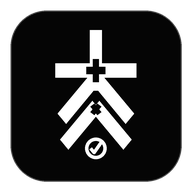
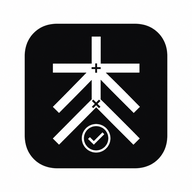
Add files via upload

diff --git a/index.html b/index.html
@@ -9,68 +9,26 @@
 <meta name="apple-mobile-web-app-title" content="창신체크미" />
 <link rel="manifest" href="manifest.webmanifest" />
 <link rel="apple-touch-icon" href="icon-192.png" />
+<link rel="preload" as="image" href="logo-original.png" />
 <title>창신체크미</title>
 <style>
-:root{font-family:-apple-system,BlinkMacSystemFont,"Apple SD Gothic Neo",sans-serif;color-scheme:dark;--bg:#000;--line:#292929;--text:#fff;--muted:#85858b}
-*{box-sizing:border-box}html,body{margin:0;background:var(--bg);color:var(--text);min-height:100%}body{min-height:100svh}button,input,select{font:inherit}.app{max-width:640px;margin:auto;padding:max(18px,env(safe-area-inset-top)) 18px calc(92px + env(safe-area-inset-bottom))}.top{display:flex;justify-content:space-between;align-items:center;margin-bottom:26px}.brand{display:flex;gap:12px;align-items:center}.mark{width:52px;height:52px;border:1px solid #333;border-radius:15px;background:#080808;display:grid;place-items:center;overflow:hidden}.mark svg{width:41px;height:41px}.title h1{font-size:22px;margin:0;letter-spacing:-.055em}.title p{font-size:12px;color:var(--muted);margin:4px 0 0;letter-spacing:.01em}.icon-btn{width:42px;height:42px;border-radius:50%;border:1px solid var(--line);background:#090909;color:#fff;display:grid;place-items:center;padding:0}.icon-btn svg{width:20px;height:20px;stroke:currentColor;fill:none;stroke-width:1.7;stroke-linecap:round;stroke-linejoin:round}.hero{text-align:center;padding:7px 0 28px}.percent{font-size:72px;font-weight:760;letter-spacing:-.075em;line-height:1}.percent small{font-size:30px;margin-left:4px}.sub{margin-top:10px;color:var(--muted);font-size:15px}.journey{position:relative;margin:26px 0 8px;padding-top:22px}.journey-icons{position:absolute;top:0;left:0;right:0;display:flex;justify-content:space-between;color:#d8d8dc}.journey-icons svg{width:16px;height:16px;fill:none;stroke:currentColor;stroke-width:1.65;stroke-linecap:round;stroke-linejoin:round}.bar{height:7px;background:#272727;border-radius:999px;overflow:hidden}.fill{height:100%;background:#fff;width:0;transition:width .35s cubic-bezier(.2,.8,.2,1)}.bar-label{display:flex;justify-content:space-between;color:#707075;font-size:12px;margin-top:8px}.section-title{font-size:13px;color:#79797e;margin:20px 0 8px}.list{border-top:1px solid var(--line)}.item{width:100%;display:flex;align-items:center;gap:14px;padding:17px 2px;border:0;border-bottom:1px solid var(--line);background:transparent;color:white;text-align:left}.item:active{opacity:.55}.item-icon{width:30px;text-align:center;font-size:19px}.item-main{flex:1;display:flex;align-items:baseline;min-width:0}.item-name{font-size:16px;font-weight:620;letter-spacing:-.035em;white-space:nowrap}.item-meta{font-size:12px;color:var(--muted);margin-left:3pt;white-space:nowrap;overflow:hidden;text-overflow:ellipsis}.state{width:25px;height:25px;border-radius:50%;border:1.5px solid #555;display:grid;place-items:center;font-size:14px;flex:none}.item.done .state{border-color:white;background:white;color:black}.controls{display:grid;grid-template-columns:1fr 1fr;gap:10px;margin-top:24px}.control{border:1px solid var(--line);border-radius:14px;padding:14px;background:#0b0b0b;color:white;font-weight:650}.control.primary{background:white;color:black;border-color:white}.hidden{display:none!important}.tabs{position:fixed;left:0;right:0;bottom:0;background:rgba(0,0,0,.9);backdrop-filter:blur(20px);border-top:1px solid #1d1d1d;padding:9px 16px calc(9px + env(safe-area-inset-bottom))}.tabs-in{max-width:640px;margin:auto;display:grid;grid-template-columns:repeat(3,1fr)}.tab{border:0;background:transparent;color:#67676c;padding:8px;font-size:12px}.tab svg{display:block;width:20px;height:20px;margin:0 auto 4px;fill:none;stroke:currentColor;stroke-width:1.6;stroke-linecap:round;stroke-linejoin:round}.tab.active{color:white}.view{display:none}.view.active{display:block}.card{border:1px solid var(--line);border-radius:18px;padding:16px;background:#0b0b0b;margin-bottom:12px}.card h3{margin:0;font-size:16px}.card p{color:var(--muted);font-size:13px;line-height:1.5}.card-actions{display:grid;grid-template-columns:1fr 1fr;gap:9px;margin-top:12px}.small-btn{border:1px solid #333;background:#111;color:white;border-radius:12px;padding:12px;font-weight:650}.small-btn.white{background:white;color:black}.photos{display:grid;grid-template-columns:repeat(3,1fr);gap:8px;margin-top:12px}.photos img{width:100%;aspect-ratio:1;object-fit:cover;border-radius:10px}.field{margin-top:14px}.field label{font-size:12px;color:var(--muted);display:block;margin-bottom:6px}.field input,.field select{width:100%;border:1px solid #333;background:#111;color:white;border-radius:12px;padding:13px}.home-return{width:100%;margin-top:12px;border:1px solid #333;background:#0b0b0b;color:#fff;border-radius:14px;padding:14px;font-weight:680;display:flex;justify-content:center;align-items:center;gap:8px}.home-return svg{width:17px;height:17px;fill:none;stroke:currentColor;stroke-width:1.7;stroke-linecap:round;stroke-linejoin:round}.toast{position:fixed;left:50%;bottom:105px;transform:translate(-50%,20px);opacity:0;background:white;color:black;border-radius:999px;padding:12px 17px;font-weight:700;transition:.2s;z-index:20;white-space:nowrap;max-width:90vw;overflow:hidden;text-overflow:ellipsis}.toast.show{opacity:1;transform:translate(-50%,0)}.complete{position:fixed;inset:0;background:black;display:none;z-index:30;align-items:center;justify-content:center;text-align:center;padding:24px}.complete.show{display:flex}.checkring{width:112px;height:112px;border:3px solid white;border-radius:50%;display:grid;place-items:center;font-size:58px;margin:auto}.complete h2{font-size:28px;margin:22px 0 8px}.complete p{color:var(--muted);margin:0 0 28px}.complete button{width:100%;max-width:320px;border:0;border-radius:14px;padding:15px;background:white;color:black;font-weight:750;margin-top:10px}.public-wrap{max-width:640px;margin:auto;padding:24px 18px}.public-photo{border-bottom:1px solid #252525;padding:18px 0}.public-photo img{width:100%;border-radius:14px}.public-meta{color:#8e8e93;font-size:12px;margin-top:8px}.loading-card{text-align:center;padding:50px 20px;color:#aaa}input[type=file]{display:none}
+:root{font-family:-apple-system,BlinkMacSystemFont,"Apple SD Gothic Neo",sans-serif;color-scheme:dark;--bg:#000;--card:#101010;--line:#292929;--text:#fff;--muted:#8e8e93}
+*{box-sizing:border-box}html,body{margin:0;background:var(--bg);color:var(--text);min-height:100%}body{min-height:100svh}button,input,select{font:inherit}.app{max-width:640px;margin:auto;padding:max(18px,env(safe-area-inset-top)) 18px calc(92px + env(safe-area-inset-bottom))}.top{display:flex;justify-content:space-between;align-items:center;margin-bottom:28px}.brand{display:flex;gap:12px;align-items:center}.mark{width:48px;height:48px;border-radius:13px;overflow:hidden;background:#fff;flex:none}.mark img{display:block;width:100%;height:100%;object-fit:cover}.title h1{font-size:21px;margin:0;letter-spacing:-.05em}.title p{font-size:12px;color:var(--muted);margin:3px 0 0}.icon-btn{width:42px;height:42px;border-radius:50%;border:1px solid var(--line);background:#0c0c0c;color:white;display:grid;place-items:center;padding:0}.icon-btn svg{width:21px;height:21px;display:block}.hero{text-align:center;padding:6px 0 28px}.percent{font-size:68px;font-weight:750;letter-spacing:-.07em;line-height:1}.percent small{font-size:28px;margin-left:3px}.sub{margin-top:10px;color:var(--muted);font-size:14px}.bar{height:6px;background:#242424;border-radius:999px;overflow:hidden;margin:22px 0 8px}.fill{height:100%;background:#fff;width:0;transition:width .35s cubic-bezier(.2,.8,.2,1)}.bar-label{display:flex;justify-content:space-between;color:#6f6f73;font-size:12px}.section-title{font-size:13px;color:#76767b;margin:20px 0 8px}.list{border-top:1px solid var(--line)}.item{width:100%;display:flex;align-items:center;gap:13px;padding:16px 2px;border:0;border-bottom:1px solid var(--line);background:transparent;color:white;text-align:left}.item:active{opacity:.55}.item-icon{width:30px;text-align:center;font-size:19px}.item-main{flex:1}.item-name{font-size:16px;font-weight:600;letter-spacing:-.03em}.item-meta{font-size:12px;color:var(--muted);margin-top:3px}.state{width:24px;height:24px;border-radius:50%;border:1.5px solid #555;display:grid;place-items:center;font-size:14px}.item.done .state{border-color:white;background:white;color:black}.controls{display:grid;grid-template-columns:1fr 1fr;gap:10px;margin-top:24px}.control{border:1px solid var(--line);border-radius:14px;padding:14px;background:#0b0b0b;color:white;font-weight:650}.control.primary{background:white;color:black;border-color:white}.hidden{display:none!important}.tabs{position:fixed;left:0;right:0;bottom:0;background:rgba(0,0,0,.88);backdrop-filter:blur(20px);border-top:1px solid #1d1d1d;padding:9px 16px calc(9px + env(safe-area-inset-bottom))}.tabs-in{max-width:640px;margin:auto;display:grid;grid-template-columns:repeat(3,1fr)}.tab{border:0;background:transparent;color:#67676c;padding:8px;font-size:12px}.tab b{display:block;font-size:19px;margin-bottom:3px}.tab.active{color:white}.view{display:none}.view.active{display:block}.card{border:1px solid var(--line);border-radius:18px;padding:16px;background:#0b0b0b;margin-bottom:12px}.card h3{margin:0;font-size:16px}.card p{color:var(--muted);font-size:13px;line-height:1.5}.card-actions{display:grid;grid-template-columns:1fr 1fr;gap:9px;margin-top:12px}.small-btn{border:1px solid #333;background:#111;color:white;border-radius:12px;padding:12px;font-weight:650}.small-btn.white{background:white;color:black}.photos{display:grid;grid-template-columns:repeat(3,1fr);gap:8px;margin-top:12px}.photos img{width:100%;aspect-ratio:1;object-fit:cover;border-radius:10px}.field{margin-top:14px}.field label{font-size:12px;color:var(--muted);display:block;margin-bottom:6px}.field input,.field select{width:100%;border:1px solid #333;background:#111;color:white;border-radius:12px;padding:13px}.toast{position:fixed;left:50%;bottom:105px;transform:translate(-50%,20px);opacity:0;background:white;color:black;border-radius:999px;padding:12px 17px;font-weight:700;transition:.2s;z-index:20;white-space:nowrap;max-width:90vw;overflow:hidden;text-overflow:ellipsis}.toast.show{opacity:1;transform:translate(-50%,0)}.complete{position:fixed;inset:0;background:black;display:none;z-index:30;align-items:center;justify-content:center;text-align:center;padding:24px}.complete.show{display:flex}.checkring{width:112px;height:112px;border:3px solid white;border-radius:50%;display:grid;place-items:center;font-size:58px;margin:auto}.complete h2{font-size:28px;margin:22px 0 8px}.complete p{color:var(--muted);margin:0 0 28px}.complete button{width:100%;max-width:320px;border:0;border-radius:14px;padding:15px;background:white;color:black;font-weight:750;margin-top:10px}.public-wrap{max-width:640px;margin:auto;padding:24px 18px}.public-photo{border-bottom:1px solid #252525;padding:18px 0}.public-photo img{width:100%;border-radius:14px}.public-meta{color:#8e8e93;font-size:12px;margin-top:8px}.loading-card{text-align:center;padding:50px 20px;color:#aaa}input[type=file]{display:none}
 </style>
 </head>
 <body>
 <div id="appRoot" class="app">
-<header class="top">
-  <div class="brand">
-    <div class="mark" aria-label="창신체크미 로고">
-      <svg viewBox="0 0 100 100" aria-hidden="true">
-        <g fill="#fff">
-          <rect x="45" y="5" width="10" height="42"/>
-          <rect x="16" y="28" width="68" height="10"/>
-          <polygon points="45,36 52,43 25,70 18,63"/>
-          <polygon points="55,36 82,63 75,70 48,43"/>
-          <polygon points="47,54 54,61 27,88 20,81"/>
-          <polygon points="53,54 80,81 73,88 46,61"/>
-        </g>
-        <rect x="47.5" y="25" width="5" height="16" fill="#000"/><rect x="42" y="30.5" width="16" height="5" fill="#000"/>
-        <path d="M47 57l6 6M53 57l-6 6" stroke="#000" stroke-width="4.5" stroke-linecap="square"/>
-        <circle cx="50" cy="87" r="9" fill="#000" stroke="#fff" stroke-width="3"/>
-        <path d="M45.5 87l3 3 6-7" fill="none" stroke="#fff" stroke-width="3" stroke-linecap="round" stroke-linejoin="round"/>
-      </svg>
-    </div>
-    <div class="title"><h1>창신체크미</h1><p>WORKSHOP CHECK</p></div>
-  </div>
-  <button id="quickSettings" class="icon-btn" aria-label="설정 열기 또는 홈으로 돌아가기">
-    <svg id="topSettingsIcon" viewBox="0 0 24 24"><circle cx="12" cy="12" r="3.1"/><path d="M19.4 15a1.7 1.7 0 0 0 .34 1.88l.05.05-2.12 2.12-.05-.05a1.7 1.7 0 0 0-1.88-.34 1.7 1.7 0 0 0-1.03 1.56V20.3h-3v-.08a1.7 1.7 0 0 0-1.03-1.56 1.7 1.7 0 0 0-1.88.34l-.05.05-2.12-2.12.05-.05A1.7 1.7 0 0 0 7 15a1.7 1.7 0 0 0-1.56-1.03h-.08v-3h.08A1.7 1.7 0 0 0 7 9.94a1.7 1.7 0 0 0-.34-1.88l-.05-.05 2.12-2.12.05.05a1.7 1.7 0 0 0 1.88.34A1.7 1.7 0 0 0 11.69 4.7v-.08h3v.08a1.7 1.7 0 0 0 1.03 1.56 1.7 1.7 0 0 0 1.88-.34l.05-.05 2.12 2.12-.05.05a1.7 1.7 0 0 0-.34 1.88A1.7 1.7 0 0 0 20.94 11h.08v3h-.08A1.7 1.7 0 0 0 19.4 15z"/></svg>
-  </button>
-</header>
+<header class="top"><div class="brand"><div class="mark"><img src="logo-original.png" alt="창신체크미 로고"></div><div class="title"><h1>창신체크미</h1><p>WORKSHOP CHECK</p></div></div><button id="quickSettings" class="icon-btn" type="button" aria-label="설정 열기"><svg viewBox="0 0 24 24" fill="none" aria-hidden="true"><path d="M12 8.25a3.75 3.75 0 1 0 0 7.5 3.75 3.75 0 0 0 0-7.5Z" stroke="currentColor" stroke-width="1.7"/><path d="M19.14 13.34a7.82 7.82 0 0 0 .05-2.68l2.01-1.56-2-3.46-2.38.96a8 8 0 0 0-2.32-1.34L14.14 2.7h-4.28L9.5 5.26A8 8 0 0 0 7.18 6.6L4.8 5.64l-2 3.46 2.01 1.56a7.82 7.82 0 0 0 .05 2.68L2.8 14.9l2 3.46 2.42-.98A8.02 8.02 0 0 0 9.5 18.7l.36 2.6h4.28l.36-2.6a8.02 8.02 0 0 0 2.28-1.32l2.42.98 2-3.46-2.06-1.56Z" stroke="currentColor" stroke-width="1.7" stroke-linejoin="round"/></svg></button></header>
 <section id="checkView" class="view active">
-<div class="hero">
-  <div class="percent"><span id="percent">0</span><small>%</small></div>
-  <div id="countText" class="sub">0 / 7 완료</div>
-  <div class="journey">
-    <div class="journey-icons">
-      <svg viewBox="0 0 24 24" aria-label="작업실"><path d="M4 21h16M6 21V8h8v13M14 12h4v9M9 11h2M9 15h2M9 19h2M17 15h1M17 18h1"/></svg>
-      <svg viewBox="0 0 24 24" aria-label="집"><path d="M3 11.2 12 4l9 7.2M5.5 10.2V21h13V10.2M9.5 21v-6h5v6"/></svg>
-    </div>
-    <div class="bar"><div id="progressFill" class="fill"></div></div>
-  </div>
-  <div class="bar-label"><span>진행률</span><span id="statusText">점검 중</span></div>
-</div>
+<div class="hero"><div class="percent"><span id="percent">0</span><small>%</small></div><div id="countText" class="sub">0 / 7 완료</div><div class="bar"><div id="progressFill" class="fill"></div></div><div class="bar-label"><span>진행률</span><span id="statusText">점검 중</span></div></div>
 <div class="section-title">항목을 누르면 바로 카메라가 열립니다</div><div id="itemList" class="list"></div>
 <div class="controls"><button id="breakBtn" class="control">잠시 외출</button><button id="shareBtn" class="control primary">공유하기</button></div>
 <input id="cameraInput" type="file" accept="image/*" capture="environment" />
 </section>
 <section id="historyView" class="view"><div id="historyList"></div></section>
-<section id="settingsView" class="view">
-  <div class="card"><h3>작업실 위치</h3><p id="workshopInfo">아직 저장되지 않음</p><div class="field"><label>경고 반경</label><input id="radiusInput" type="number" value="120" min="30" max="500" /></div><div class="card-actions"><button id="saveWorkshopBtn" class="small-btn white">현재 위치 저장</button><button id="clearWorkshopBtn" class="small-btn">위치 지우기</button></div></div>
-  <div class="card"><h3>잠시 외출</h3><div class="field"><label>기본 시간</label><select id="breakSelect"><option value="30">30분</option><option value="60">1시간</option><option value="120">2시간</option></select></div></div>
-  <div class="card"><h3>새 점검</h3><p>현재 점검을 비우고 처음부터 다시 시작합니다.</p><button id="newSessionBtn" class="small-btn white" style="width:100%">새 점검 시작</button></div>
-  <button id="settingsHomeBtn" class="home-return"><svg viewBox="0 0 24 24"><path d="M3 11.2 12 4l9 7.2M5.5 10.2V21h13V10.2M9.5 21v-6h5v6"/></svg>홈으로 돌아가기</button>
-</section>
+<section id="settingsView" class="view"><div class="card"><h3>작업실 위치</h3><p id="workshopInfo">아직 저장되지 않음</p><div class="field"><label>경고 반경</label><input id="radiusInput" type="number" value="120" min="30" max="500" /></div><div class="card-actions"><button id="saveWorkshopBtn" class="small-btn white">현재 위치 저장</button><button id="clearWorkshopBtn" class="small-btn">위치 지우기</button></div></div><div class="card"><h3>잠시 외출</h3><div class="field"><label>기본 시간</label><select id="breakSelect"><option value="30">30분</option><option value="60">1시간</option><option value="120">2시간</option></select></div></div><div class="card"><h3>새 점검</h3><p>현재 점검을 비우고 처음부터 다시 시작합니다.</p><button id="newSessionBtn" class="small-btn white" style="width:100%">새 점검 시작</button></div></section>
 </div>
-<nav class="tabs" id="tabs"><div class="tabs-in">
-<button class="tab active" data-view="checkView"><svg viewBox="0 0 24 24"><path d="M3 11.2 12 4l9 7.2M5.5 10.2V21h13V10.2M9.5 21v-6h5v6"/></svg>홈</button>
-<button class="tab" data-view="historyView"><svg viewBox="0 0 24 24"><rect x="5" y="3" width="14" height="18" rx="2"/><path d="M8.5 8h7M8.5 12h7M8.5 16h5"/></svg>기록</button>
-<button class="tab" data-view="settingsView"><svg viewBox="0 0 24 24"><circle cx="12" cy="12" r="3.1"/><path d="M19.4 15a1.7 1.7 0 0 0 .34 1.88l.05.05-2.12 2.12-.05-.05a1.7 1.7 0 0 0-1.88-.34 1.7 1.7 0 0 0-1.03 1.56V20.3h-3v-.08a1.7 1.7 0 0 0-1.03-1.56 1.7 1.7 0 0 0-1.88.34l-.05.05-2.12-2.12.05-.05A1.7 1.7 0 0 0 7 15a1.7 1.7 0 0 0-1.56-1.03h-.08v-3h.08A1.7 1.7 0 0 0 7 9.94a1.7 1.7 0 0 0-.34-1.88l-.05-.05 2.12-2.12.05.05a1.7 1.7 0 0 0 1.88.34A1.7 1.7 0 0 0 11.69 4.7v-.08h3v.08a1.7 1.7 0 0 0 1.03 1.56 1.7 1.7 0 0 0 1.88-.34l.05-.05 2.12 2.12-.05.05a1.7 1.7 0 0 0-.34 1.88A1.7 1.7 0 0 0 20.94 11h.08v3h-.08A1.7 1.7 0 0 0 19.4 15z"/></svg>설정</button>
-</div></nav>
+<nav class="tabs" id="tabs"><div class="tabs-in"><button class="tab active" data-view="checkView"><b>⌂</b>홈</button><button class="tab" data-view="historyView"><b>▣</b>기록</button><button class="tab" data-view="settingsView"><b><svg viewBox="0 0 24 24" width="19" height="19" fill="none" style="vertical-align:middle"><circle cx="12" cy="12" r="3.4" stroke="currentColor" stroke-width="1.6"/><path d="M19.1 13.3c.13-.86.13-1.74 0-2.6l1.85-1.43-1.84-3.18-2.2.89a7.5 7.5 0 0 0-2.24-1.3L14.34 3.3h-4.68l-.33 2.38a7.5 7.5 0 0 0-2.24 1.3l-2.2-.89-1.84 3.18L4.9 10.7a8.5 8.5 0 0 0 0 2.6l-1.85 1.43 1.84 3.18 2.2-.89a7.5 7.5 0 0 0 2.24 1.3l.33 2.38h4.68l.33-2.38a7.5 7.5 0 0 0 2.24-1.3l2.2.89 1.84-3.18L19.1 13.3Z" stroke="currentColor" stroke-width="1.6" stroke-linejoin="round"/></svg></b>설정</button></div></nav>
 <div id="toast" class="toast"></div>
 <div id="completeScreen" class="complete"><div><div class="checkring">✓</div><h2>모든 항목 완료</h2><p>퇴실 준비가 끝났습니다.</p><button id="completeHistory">기록 보기</button><button id="completeClose">홈으로</button></div></div>
 <script type="module" src="app.js"></script>

diff --git a/app.js b/app.js
@@ -7,7 +7,7 @@ import { getStorage, ref, uploadBytes, getDownloadURL } from 'https://www.gstati
 const ITEMS=[
 {id:'f1_ac',name:'1층 에어컨',icon:'▱'},{id:'f1_in',name:'1층 실내조명',icon:'◉'},{id:'f1_out',name:'1층 실외조명',icon:'◌'},{id:'f1_lock',name:'1층 문잠금',icon:'▣'},
 {id:'f2_ac',name:'2층 에어컨',icon:'▱'},{id:'f2_in',name:'2층 실내조명',icon:'◉'},{id:'f2_lock',name:'2층 문잠금',icon:'▣'}];
-const KEY='changsinCheckMe_v4';
+const KEY='changsinCheckMe_v6';
 const DEFAULT={current:null,history:[],settings:{workshop:null,radius:120,breakMinutes:30,breakUntil:null},view:'checkView'};
 let state=load(); let activeItem=null; let coords=null; let lastAlert=0; let fb=null;
 const $=id=>document.getElementById(id); const $$=s=>[...document.querySelectorAll(s)];
@@ -26,7 +26,7 @@ setup(); render(); watchLocation();
 function setup(){
  $('cameraInput').addEventListener('change',onPhoto);
  $('breakBtn').addEventListener('click',toggleBreak); $('shareBtn').addEventListener('click',()=>shareSession(state.current));
- $('quickSettings').addEventListener('click',()=>switchView(state.view==='settingsView'?'checkView':'settingsView')); $('settingsHomeBtn').addEventListener('click',()=>switchView('checkView'));
+ $('quickSettings').addEventListener('click',()=>switchView(state.view==='settingsView'?'checkView':'settingsView'));
  $('saveWorkshopBtn').addEventListener('click',saveWorkshop); $('clearWorkshopBtn').addEventListener('click',()=>{state.settings.workshop=null;save();render()});
  $('radiusInput').addEventListener('change',e=>{state.settings.radius=Math.max(30,Math.min(500,+e.target.value||120));save()});
  $('breakSelect').addEventListener('change',e=>{state.settings.breakMinutes=+e.target.value;save()});

diff --git a/sw.js b/sw.js
@@ -1,4 +1,4 @@
-const CACHE = 'changsin-checkme-v5';
+const CACHE = 'changsin-checkme-v6';
 const ASSETS = [
   './',
   './index.html',
@@ -6,7 +6,8 @@ const ASSETS = [
   './firebase-config.js',
   './manifest.webmanifest',
   './icon-192.png',
-  './icon-512.png'
+  './icon-512.png',
+  './logo-original.png'
 ];
 self.addEventListener('install', event => {
   event.waitUntil(caches.open(CACHE).then(cache => cache.addAll(ASSETS)));
